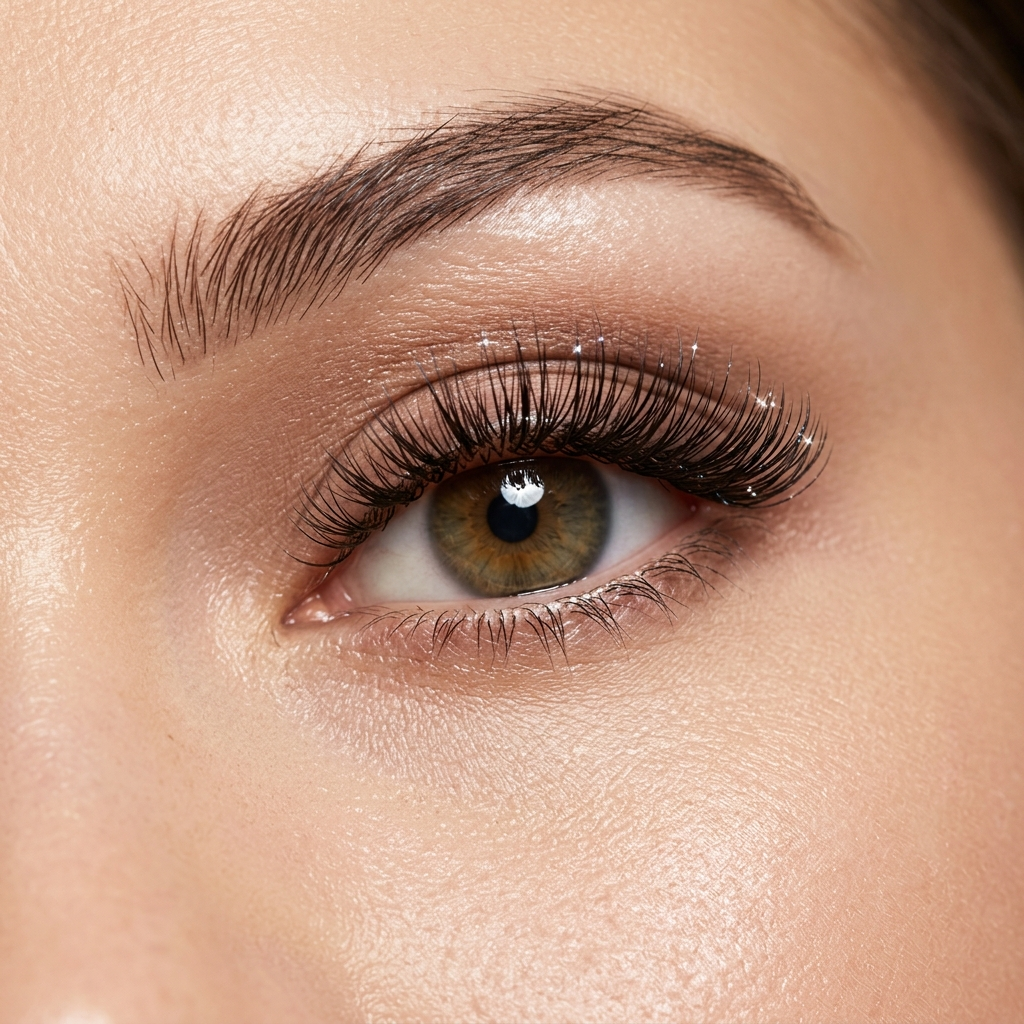
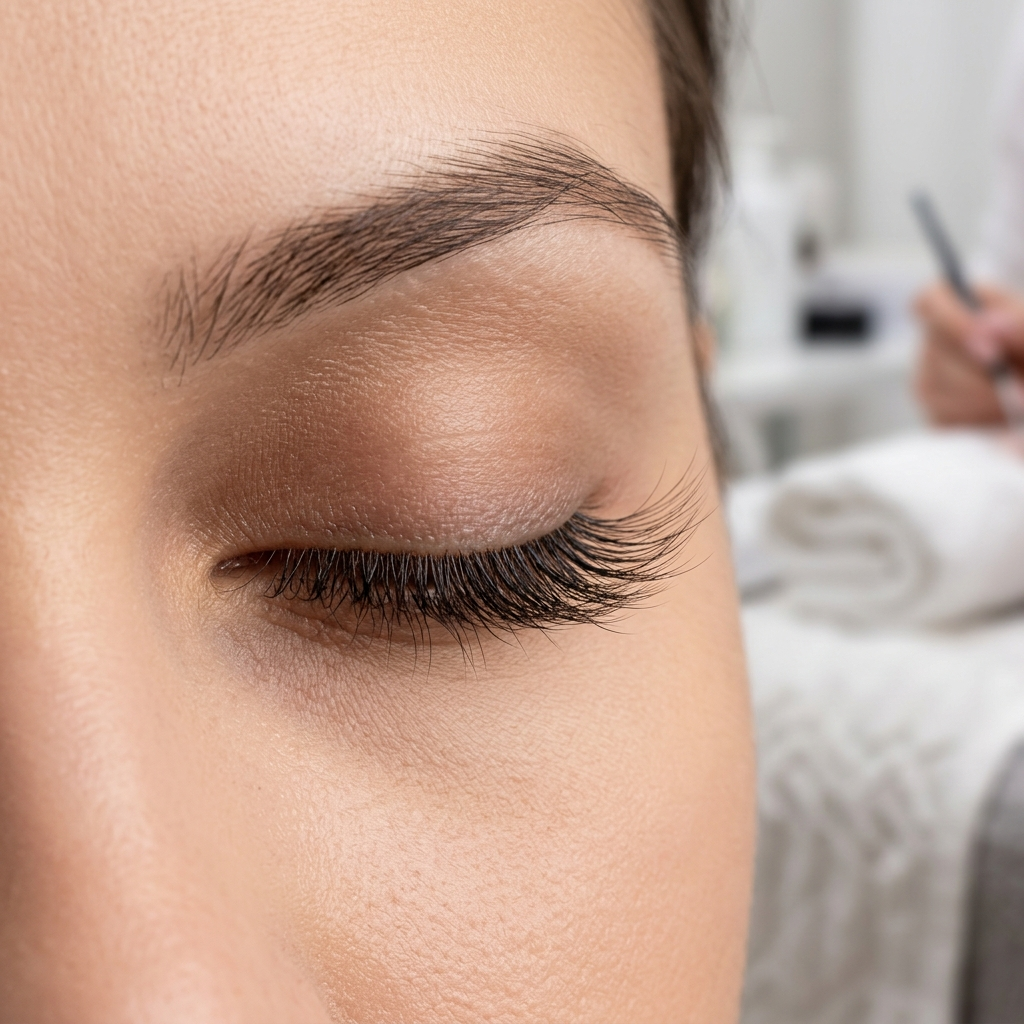
fix(services): remover lash lifting, adicionar design com henna, volume shine e wispy, e corrigir foto do fox eyes

diff --git a/src/config/siteConfig.js b/src/config/siteConfig.js
@@ -174,17 +174,30 @@ export const siteConfig = {
       image: "/services/fio-a-fio.jpg"
     },
     {
-      id: "lash-lifting",
-      title: "Lash Lifting",
+      id: "volume-wispy",
+      title: "Volume Wispy",
       category: "cilios",
-      price: "R$ 120,00",
-      tagline: "Curvatura, hidratação profunda e tingimento dos seus fios",
-      description: "Tratamento para os cílios naturais que curva, alonga visualmente e tinge de preto intenso, com aplicação de queratina e vitaminas.",
-      duration: "1h 30min",
-      retention: "Duração de 6 a 8 semanas",
-      badge: "Zero Manutenção",
+      price: "R$ 165,00",
+      tagline: "Efeito desestruturado 'Kim K' com textura e movimento",
+      description: "Mapeamento texturizado que mescla fios volumosos com pontas despontadas (spikes) em camadas. Cria um visual moderno, leve e com efeito 'Kim Kardashian'.",
+      duration: "2h",
+      retention: "Manutenção em 18 a 22 dias",
+      badge: "Efeito Kim K",
+      popular: true,
+      image: "/services/volume-wispy.jpg"
+    },
+    {
+      id: "volume-shine",
+      title: "Volume Shine",
+      category: "cilios",
+      price: "R$ 160,00",
+      tagline: "Brilho acetinado, curvatura marcante e acabamento radiante",
+      description: "Técnica com fios de acabamento gloss/acetinado que refletem a luz sutilmente, proporcionando um olhar iluminado, sofisticado e marcante.",
+      duration: "2h",
+      retention: "Manutenção em 18 a 25 dias",
+      badge: "Brilho Radiante",
       popular: false,
-      image: "/services/lash-lifting.jpg"
+      image: "/services/volume-shine.jpg"
     },
     {
       id: "remocao",
@@ -211,6 +224,19 @@ export const siteConfig = {
       badge: "Destaque Sobrancelhas",
       popular: true,
       image: "/services/brow-lamination.jpg"
+    },
+    {
+      id: "design-henna",
+      title: "Design com Henna",
+      category: "sobrancelhas",
+      price: "R$ 50,00",
+      tagline: "Definição, preenchimento de falhas e cor personalizada",
+      description: "Mapeamento visagista com aplicação de henna premium de alta fixação. Ideal para quem deseja sobrancelhas mais marcadas, desenhadas e sem falhas.",
+      duration: "45min",
+      retention: "Durabilidade de 7 a 15 dias na pele",
+      badge: "Mais Pedido Sobrancelhas",
+      popular: true,
+      image: "/services/design-com-henna.jpg"
     },
     {
       id: "design-personalizado",
@@ -286,10 +312,10 @@ export const siteConfig = {
     },
     {
       name: "Juliana M.",
-      text: "O Lash Lifting superou todas as minhas expectativas! Meus cílios ficaram curvados e definidos com um efeito muito natural. A durabilidade e o cuidado da Vitória são impecáveis.",
+      text: "O Fox Eyes e o Design com Henna superaram todas as minhas expectativas! Meu olhar ficou marcante, elegante e com um acabamento perfeito. A durabilidade e o cuidado da Vitória são impecáveis.",
       tag: "Cliente assídua",
       stars: 5,
-      technique: "Lash Lifting"
+      technique: "Fox Eyes & Henna"
     }
   ],
 

diff --git a/src/components/Services.jsx b/src/components/Services.jsx
@@ -243,7 +243,7 @@ export default function Services({ onOpenCatalog }) {
                       </h3>
 
                       <p className="text-xs font-semibold text-rose-400 mb-2">
-                        Volume Russo, Híbrido, Lifting, Cuidados e Manutenções
+                        Fox Eyes, Wispy, Shine, Sirena, Sobrancelhas e mais
                       </p>
 
                       <p className={`text-xs sm:text-sm leading-relaxed line-clamp-3 md:line-clamp-none mb-3 ${
